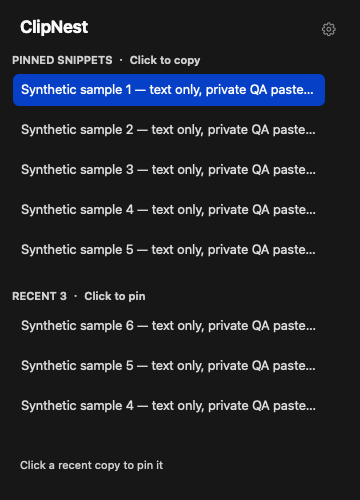
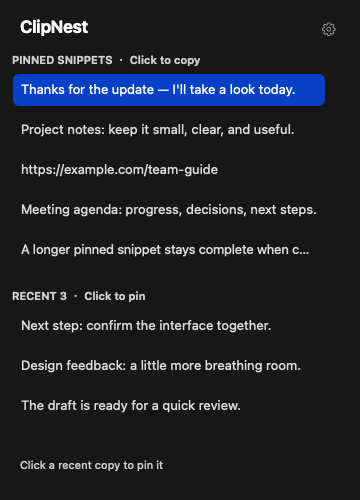
Render actual AppKit UI review previews with synthetic snippets

diff --git a/Sources/ClipNest/main.swift b/Sources/ClipNest/main.swift
@@ -9,7 +9,7 @@ final class AppDelegate: NSObject, NSApplicationDelegate {
     var store: ClipboardStore!
     var monitor: ClipboardMonitor!
     var panel: PanelView!
-    let testing = CommandLine.arguments.contains("--ui-test") || CommandLine.arguments.contains("--preview")
+    let testing = CommandLine.arguments.contains("--ui-test") || CommandLine.arguments.contains("--preview") || CommandLine.arguments.contains("--review-previews")
     var sampleIndex = 0
     func applicationDidFinishLaunching(_ notification: Notification) {
         NSApp.setActivationPolicy(.accessory)
@@ -38,6 +38,10 @@ final class AppDelegate: NSObject, NSApplicationDelegate {
         status.button?.setAccessibilityLabel("ClipNest clipboard")
         monitor.start()
         if testing {
+            if CommandLine.arguments.contains("--review-previews") {
+                renderReviewPreviews()
+                return
+            }
             if CommandLine.arguments.contains("--preview") {
                 for _ in 0..<5 { testCopy(); _ = store.pin(store.recent[0].id) }
                 testCopy()
@@ -46,6 +50,39 @@ final class AppDelegate: NSObject, NSApplicationDelegate {
             DispatchQueue.main.asyncAfter(deadline: .now() + 1) { [weak self] in
                 self?.testScreenshot()
                 if CommandLine.arguments.contains("--preview") { NSApp.terminate(nil) }
+            }
+        }
+    }
+    func renderReviewPreviews() {
+        // Sample text is invented and kept on the dedicated QA pasteboard.
+        let samples = [
+            "Thanks for the update — I'll take a look today.",
+            "Project notes: keep it small, clear, and useful.",
+            "https://example.com/team-guide",
+            "Meeting agenda: progress, decisions, next steps.",
+            "A longer pinned snippet stays complete when copied, even though its single-line preview is shortened to fit this compact menu bar panel.",
+            "The draft is ready for a quick review.",
+            "Design feedback: a little more breathing room.",
+            "Next step: confirm the interface together."
+        ]
+        for (index, text) in samples.enumerated() {
+            monitor.board.clearContents(); monitor.board.setString(text, forType: .string); monitor.poll()
+            if index < 5 { _ = store.pin(store.recent[0].id) }
+        }
+        toggle()
+        let root = URL(fileURLWithPath: ProcessInfo.processInfo.environment["CLIPNEST_QA_DIR"] ?? NSTemporaryDirectory() + "clipnest-review")
+        try? FileManager.default.createDirectory(at: root, withIntermediateDirectories: true)
+        DispatchQueue.main.asyncAfter(deadline: .now() + 1) { [self] in
+            panel.capture(to: root.appendingPathComponent("ClipNest-01-list.png"))
+            panel.showDeletionTarget(true)
+            DispatchQueue.main.asyncAfter(deadline: .now() + 0.4) { [self] in
+                panel.capture(to: root.appendingPathComponent("ClipNest-02-drag-trash.png"))
+                let empty = PanelView(store: ClipboardStore(file: root.appendingPathComponent("empty/pins.json")))
+                popover.contentViewController?.view = empty
+                DispatchQueue.main.asyncAfter(deadline: .now() + 0.4) {
+                    empty.capture(to: root.appendingPathComponent("ClipNest-03-empty.png"))
+                    NSApp.terminate(nil)
+                }
             }
         }
     }

diff --git a/Sources/ClipNest/PanelView.swift b/Sources/ClipNest/PanelView.swift
@@ -35,6 +35,19 @@ final class SnippetRow: NSButton {
     }
 }
 
+final class TrashRow: NSView {
+    var backgroundColor = NSColor.systemRed { didSet { needsDisplay = true } }
+    override func draw(_ dirtyRect: NSRect) {
+        backgroundColor.setFill()
+        NSBezierPath(roundedRect: bounds, xRadius: 7, yRadius: 7).fill()
+        let paragraph = NSMutableParagraphStyle(); paragraph.alignment = .center
+        ("Drop here to delete" as NSString).draw(in: NSRect(x: 8, y: 9, width: bounds.width - 16, height: 18), withAttributes: [
+            .font: NSFont.systemFont(ofSize: 13, weight: .semibold),
+            .foregroundColor: NSColor.white, .paragraphStyle: paragraph
+        ])
+    }
+}
+
 final class PanelView: NSView {
     let store: ClipboardStore
     var onCopy: ((String) -> Void)?
@@ -43,7 +56,7 @@ final class PanelView: NSView {
     var onNotice: ((String) -> Void)?
     private let stack = NSStackView()
     private let scroll = NSScrollView()
-    private let trash = NSTextField(labelWithString: "Drop here to delete")
+    private let trash = TrashRow()
     private let footer = NSTextField(labelWithString: "Click a recent copy to pin it")
     private var buttons: [SnippetRow] = []
     private var identities: [(Bool, UUID)] = []
@@ -67,9 +80,7 @@ final class PanelView: NSView {
         NSLayoutConstraint.activate([stack.leadingAnchor.constraint(equalTo: document.leadingAnchor), stack.trailingAnchor.constraint(equalTo: document.trailingAnchor), stack.topAnchor.constraint(equalTo: document.topAnchor), stack.bottomAnchor.constraint(equalTo: document.bottomAnchor), stack.widthAnchor.constraint(equalToConstant: 314)])
         addSubview(scroll)
         trash.frame = NSRect(x: 16, y: 13, width: 328, height: 36)
-        trash.alignment = .center; trash.font = .systemFont(ofSize: 13, weight: .semibold)
-        trash.textColor = .white; trash.drawsBackground = true; trash.backgroundColor = .systemRed
-        trash.wantsLayer = true; trash.layer?.cornerRadius = 7; trash.isHidden = true; addSubview(trash)
+        trash.isHidden = true; addSubview(trash)
         footer.frame = NSRect(x: 18, y: 18, width: 326, height: 24)
         footer.font = .systemFont(ofSize: 11); footer.textColor = .secondaryLabelColor; addSubview(footer)
         refresh()
@@ -129,8 +140,8 @@ final class PanelView: NSView {
     private func drag(_ row: SnippetRow, first: NSEvent) {
         guard identities.indices.contains(row.tag) else { return }
         let id = identities[row.tag].1
-        trash.isHidden = false; footer.isHidden = true
-        defer { trash.isHidden = true; footer.isHidden = false; trash.backgroundColor = .systemRed }
+        showDeletionTarget(true)
+        defer { showDeletionTarget(false) }
         var event = first
         while true {
             let point = convert(event.locationInWindow, from: nil)
@@ -171,6 +182,11 @@ final class PanelView: NSView {
         }
         updateFocus()
         if buttons.indices.contains(selected) { buttons[selected].scrollToVisible(buttons[selected].bounds) }
+    }
+    // Shared visual state for real drag tracking and isolated review rendering.
+    func showDeletionTarget(_ visible: Bool) {
+        trash.isHidden = !visible; footer.isHidden = visible
+        trash.backgroundColor = .systemRed
     }
     func capture(to url: URL) {
         layoutSubtreeIfNeeded()

diff --git a/AGENTS.md b/AGENTS.md
@@ -4,7 +4,7 @@
 开发期。New macOS MVP, no production users. Updated 2026-10-05.
 
 ## 账号绑定
-Authorized GitHub destination: myerwang/clipnest-macos. Account ID 7298618 verified using the GitHub connector. Local gh authorization is invalid; do not use it for writes until reverified. Approved git author/committer: myerwang <7298618+myerwang@users.noreply.github.com>. Use repository-local git config only. Never use the real email or infer author identity from global configuration.
+Authorized GitHub destination: myerwang/clipnest-macos. Account ID 7298618 verified using the GitHub connector. Repository created publicly on 2026-10-05, repository ID 1405073487, browser owner and connector ID both verified. Local gh authorization remains invalid and SSH authorization failed; do not use either for writes until reverified. Approved git author/committer: myerwang <7298618+myerwang@users.noreply.github.com>. Use repository-local git config only. Never use the real email or infer author identity from global configuration.
 Bundle ID: app.clipnest.mac. Local ad-hoc signing only; no Apple Developer team or distribution account.
 
 ## 计费点清单
@@ -33,4 +33,4 @@ Keep exactly three distinct recent texts newest first; own copies do not add his
 
 ## Delivery and cleanup
 User approved ClipNest despite existing same-name clipboard apps; do not claim unique branding. Destination is myerwang/clipnest-macos (account ID 7298618).
-All local source/build/QA files are temporary. Publish source/docs/tests to GitHub and the local ad-hoc, unnotarized app archive to GitHub Releases. Verify remote downloads and checksums before cleanup. Never remove the only source copy while GitHub login or author approval is pending. After verified delivery, move only project-owned temporary files to Trash recoverably; do not empty Trash or touch toolchains, other projects or app runtime user data.
+All local source/build/QA files are temporary. Publish source/docs/tests to GitHub and the local ad-hoc, unnotarized app archive to GitHub Releases. Verify remote downloads and checksums before cleanup. UI review is pending: do not publish a final Release or clean local files until approved. Never remove the only source copy while GitHub login or author approval is pending. After verified delivery, move only project-owned temporary files to Trash recoverably; do not empty Trash or touch toolchains, other projects or app runtime user data.

diff --git a/README.md b/README.md
@@ -17,7 +17,9 @@ Long text is shown as a single truncated preview; the full text is kept. Arrow k
 
 ![Synthetic ClipNest panel](docs/screenshot.png)
 
-The screenshot is rendered from the actual AppKit panel with synthetic data in an isolated QA mode. It demonstrates pinned snippets exceeding three and recent history capped at three. It is a layout preview, **not evidence of a completed real mouse/keyboard usability test**. No personal clipboard content is included.
+[Drag-to-trash preview](docs/drag-trash.png) · [Empty-state preview](docs/empty.png)
+
+These review screenshots are rendered from the actual AppKit panel with synthetic data in an isolated QA mode. The list demonstrates pinned snippets exceeding three and recent history capped at three. They are layout previews, **not evidence of a completed real mouse/keyboard usability test**. No personal clipboard content is included.
 
 ## Build and run
 
@@ -48,6 +50,8 @@ dist/ClipNest.app/Contents/MacOS/ClipNest --ui-test
 ```
 
 Unit tests cover recent-history bounds/deduplication, eight pins, persistence and private file permissions, delete/undo order, corrupt-file preservation, failed-save rollback, and privacy markers. The integration test uses a unique named pasteboard and temporary storage to verify actual AppKit capture/copy, self-write suppression, privacy filtering, pause, five pins, recent three, deletion, undo and reload.
+
+`--review-previews` renders the normal list, the same trash visual state used by drag handling, and an empty state; it does not synthesize mouse drags. Set a fresh `CLIPNEST_QA_DIR` to choose the output directory.
 
 `--ui-test` uses a named private QA pasteboard and a temporary pins file. Its Settings menu has a synthetic-copy action and a panel-only screenshot action. Run with a fresh `CLIPNEST_QA_DIR` for a clean test. It never accesses the general clipboard. After testing, quit from Settings. Automated test success does not substitute for manual accessibility/drag usability checks.
 
